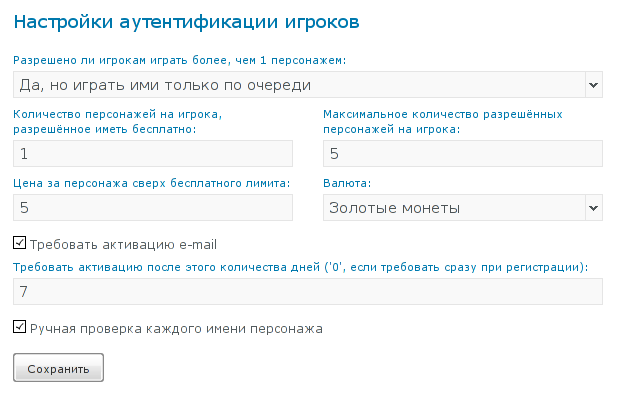
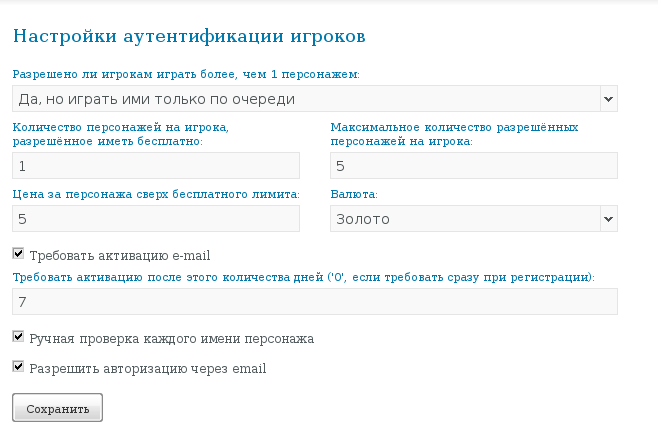
documentation update. Refs #138

diff --git a/mg/templates/constructor/docs/ru/auth.html b/mg/templates/constructor/docs/ru/auth.html
@@ -9,6 +9,7 @@
 	<li>если вы разрешили иметь нескольких персонажей, то при входе в игру у игрока сначала отобразится личный кабинет, из которого он может выбрать персонажа или создать нового: <img class="doc-screenshot" src="/st/tutorial/auth-2.jpg" alt="" /></li>
 	<li>у вас есть возможность разрешить мультоводство, но сделать его платным. Для этого укажите количество бесплатных персонажей меньшим, чем максимально допустимое количество персонажей, и укажите цену за создание нового персонажа. Обратите внимание, что оплатить создание нового персонажа можно будет из кошельков старых персонажей. Если вы выставите цену в деньгах, продаваемых за реальную валюту, то пополнить счёт можно будет прямо из личного кабинета;</li>
 	<li>требование активации e-mail &mdash; важный этап проверки данных игрока. Если вы не требуете активацию, то игроки могут указать левый или чужой e-mail. Если же закрутить гайку в обратную сторону и требовать активацию сразу же ("0" в поле с количеством дней), то вы будете терять часть игроков, которые не захотят сразу ради новой неизвестной игры выполнять действия по залезанию в почту и поиску вашего письма. Вы можете потребовать активацию не сразу, а через несколько дней после начала игры;</li>
-	<li>ручная проверка каждого имени персонажа &mdash; если вы хотите проверять имена всех регистрирующихся персонажей на соответствие сеттингу/легенде/миру, воспользуйтесь этой функцией. В меню "Персонажи / Проверка имён" у вас появится список всех непроверенных имён, откуда вы сможете быстро либо подтвердить имя, либо сменить его на более подходящее легенде. При изменении имени игрок получает письмо об этом.</li>
+	<li>ручная проверка каждого имени персонажа &mdash; если вы хотите проверять имена всех регистрирующихся персонажей на соответствие сеттингу/легенде/миру, воспользуйтесь этой функцией. В меню "Персонажи / Проверка имён" у вас появится список всех непроверенных имён, откуда вы сможете быстро либо подтвердить имя, либо сменить его на более подходящее легенде. При изменении имени игрок получает письмо об этом;</li>
+    <li>разрешить авторизацию через email &mdash; активация данной опции позволит игрокам использовать при авторизации как свой логин, так и e-mail.</li>
 </ul>
 
